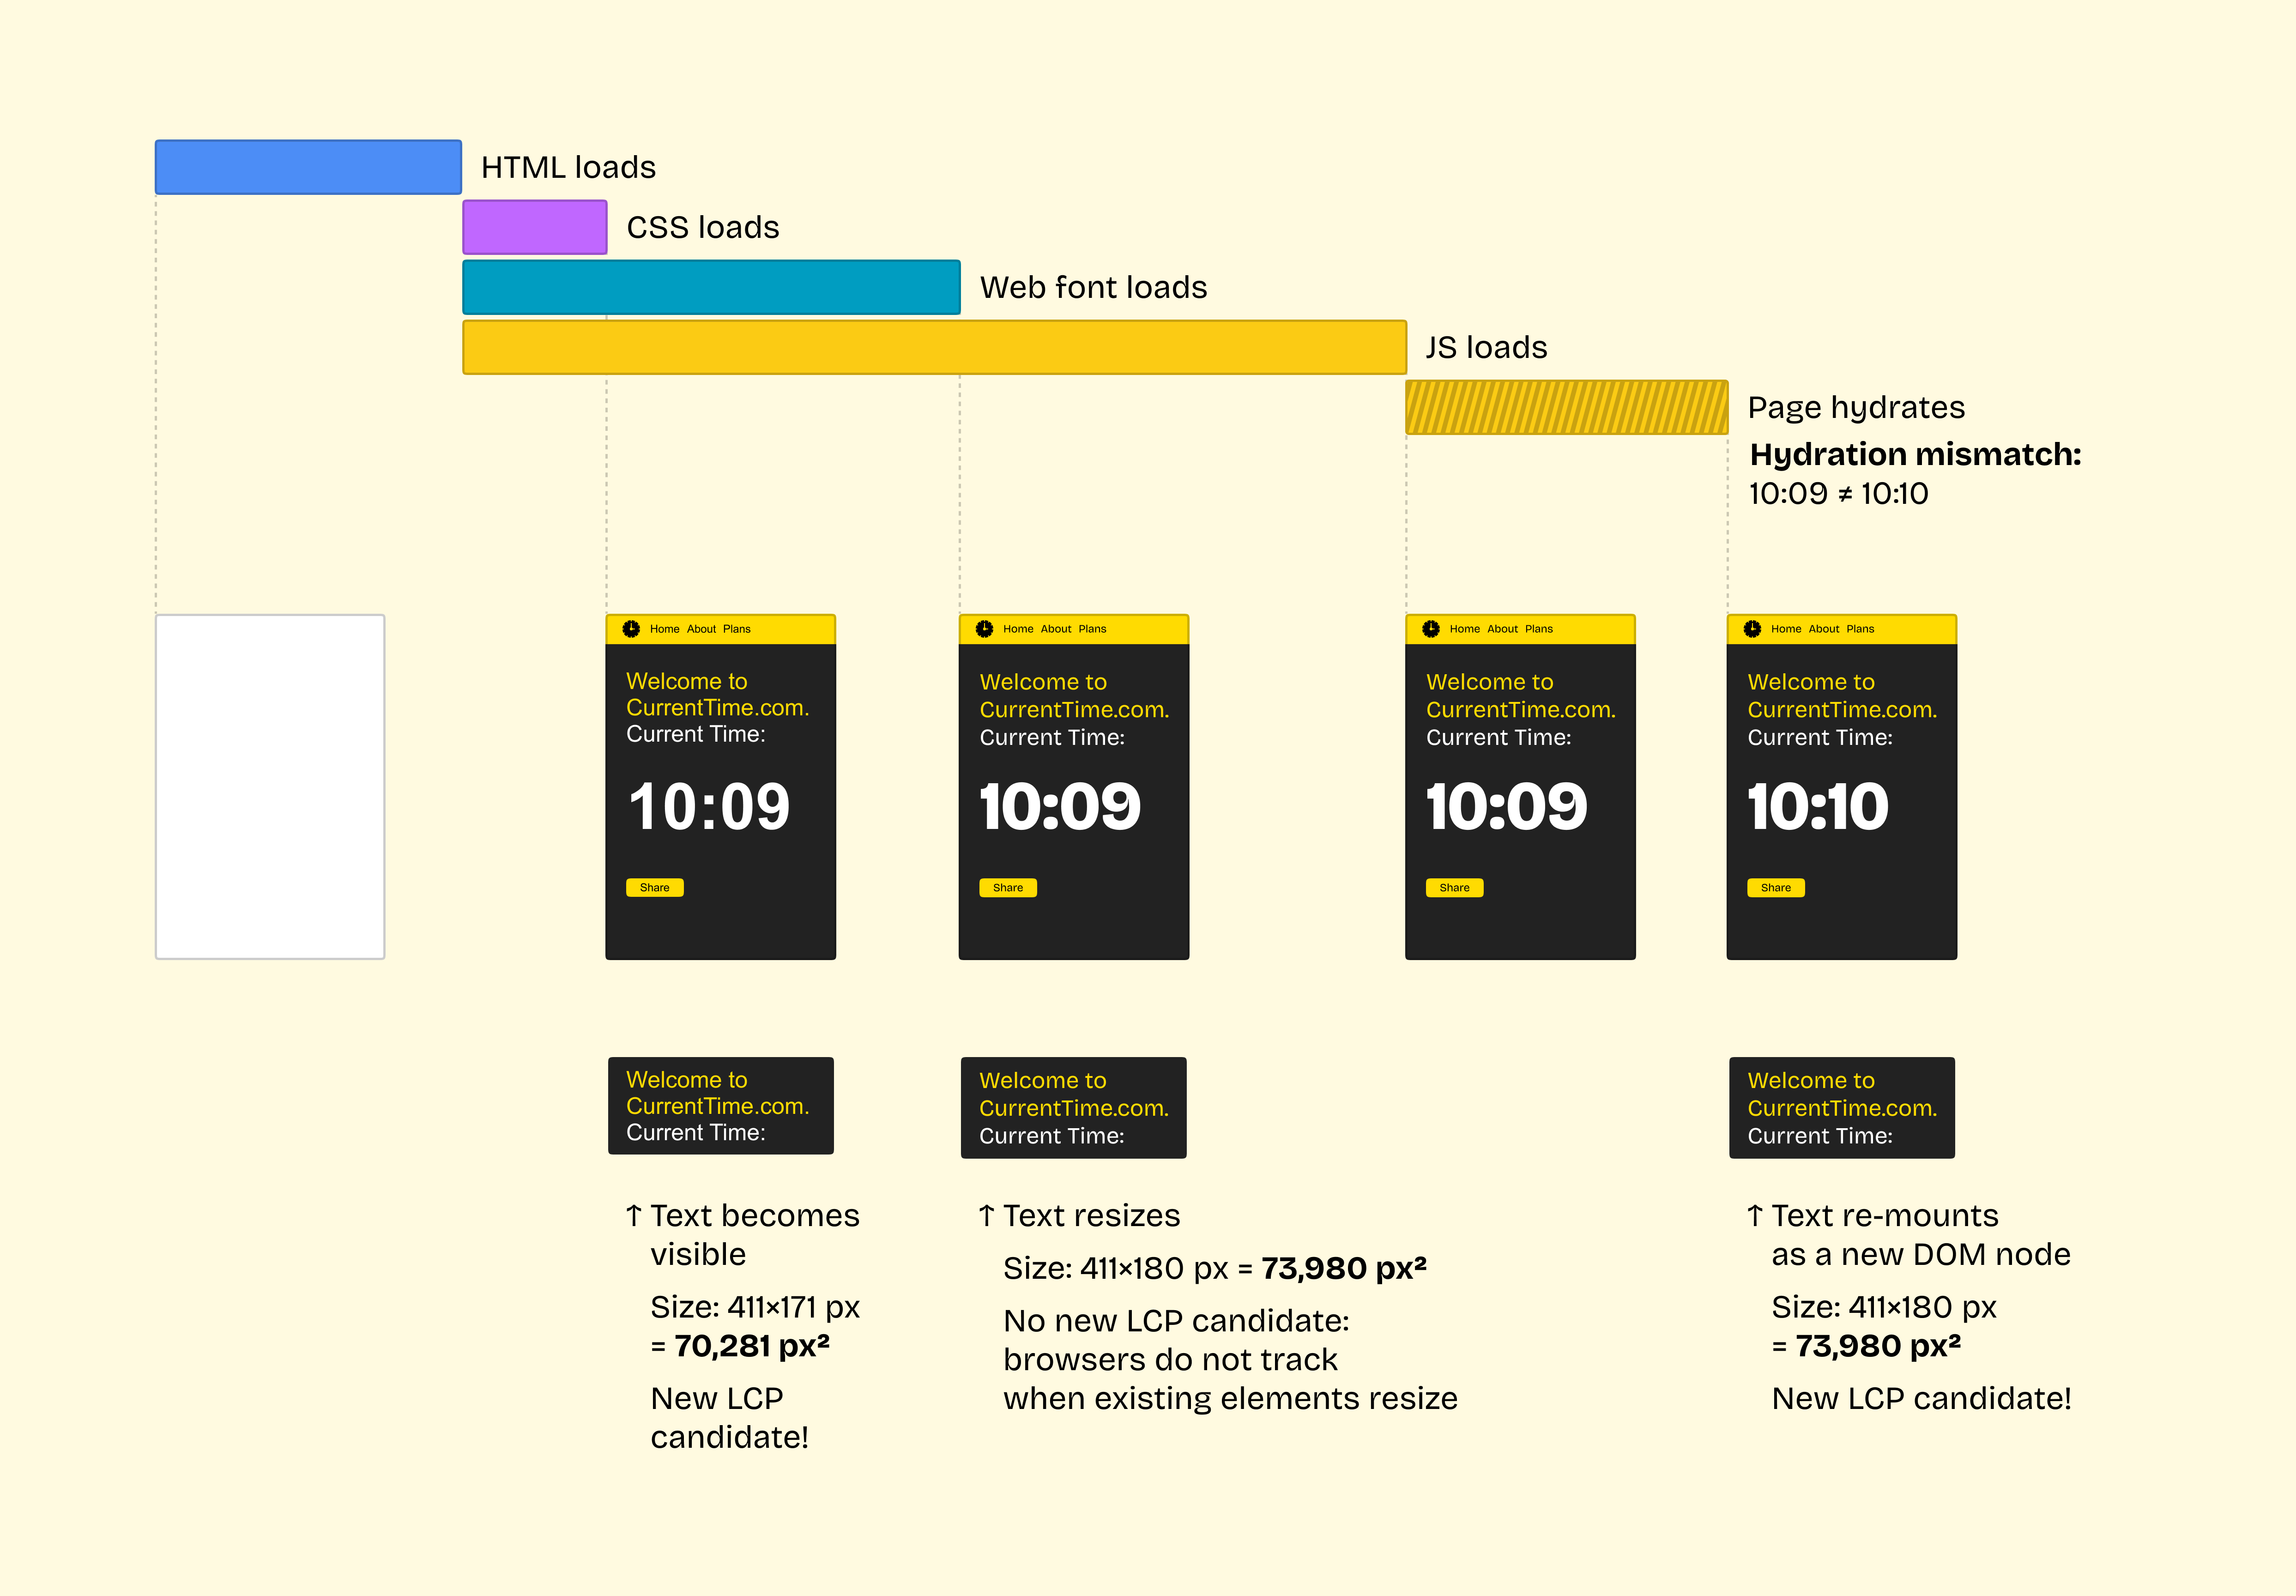
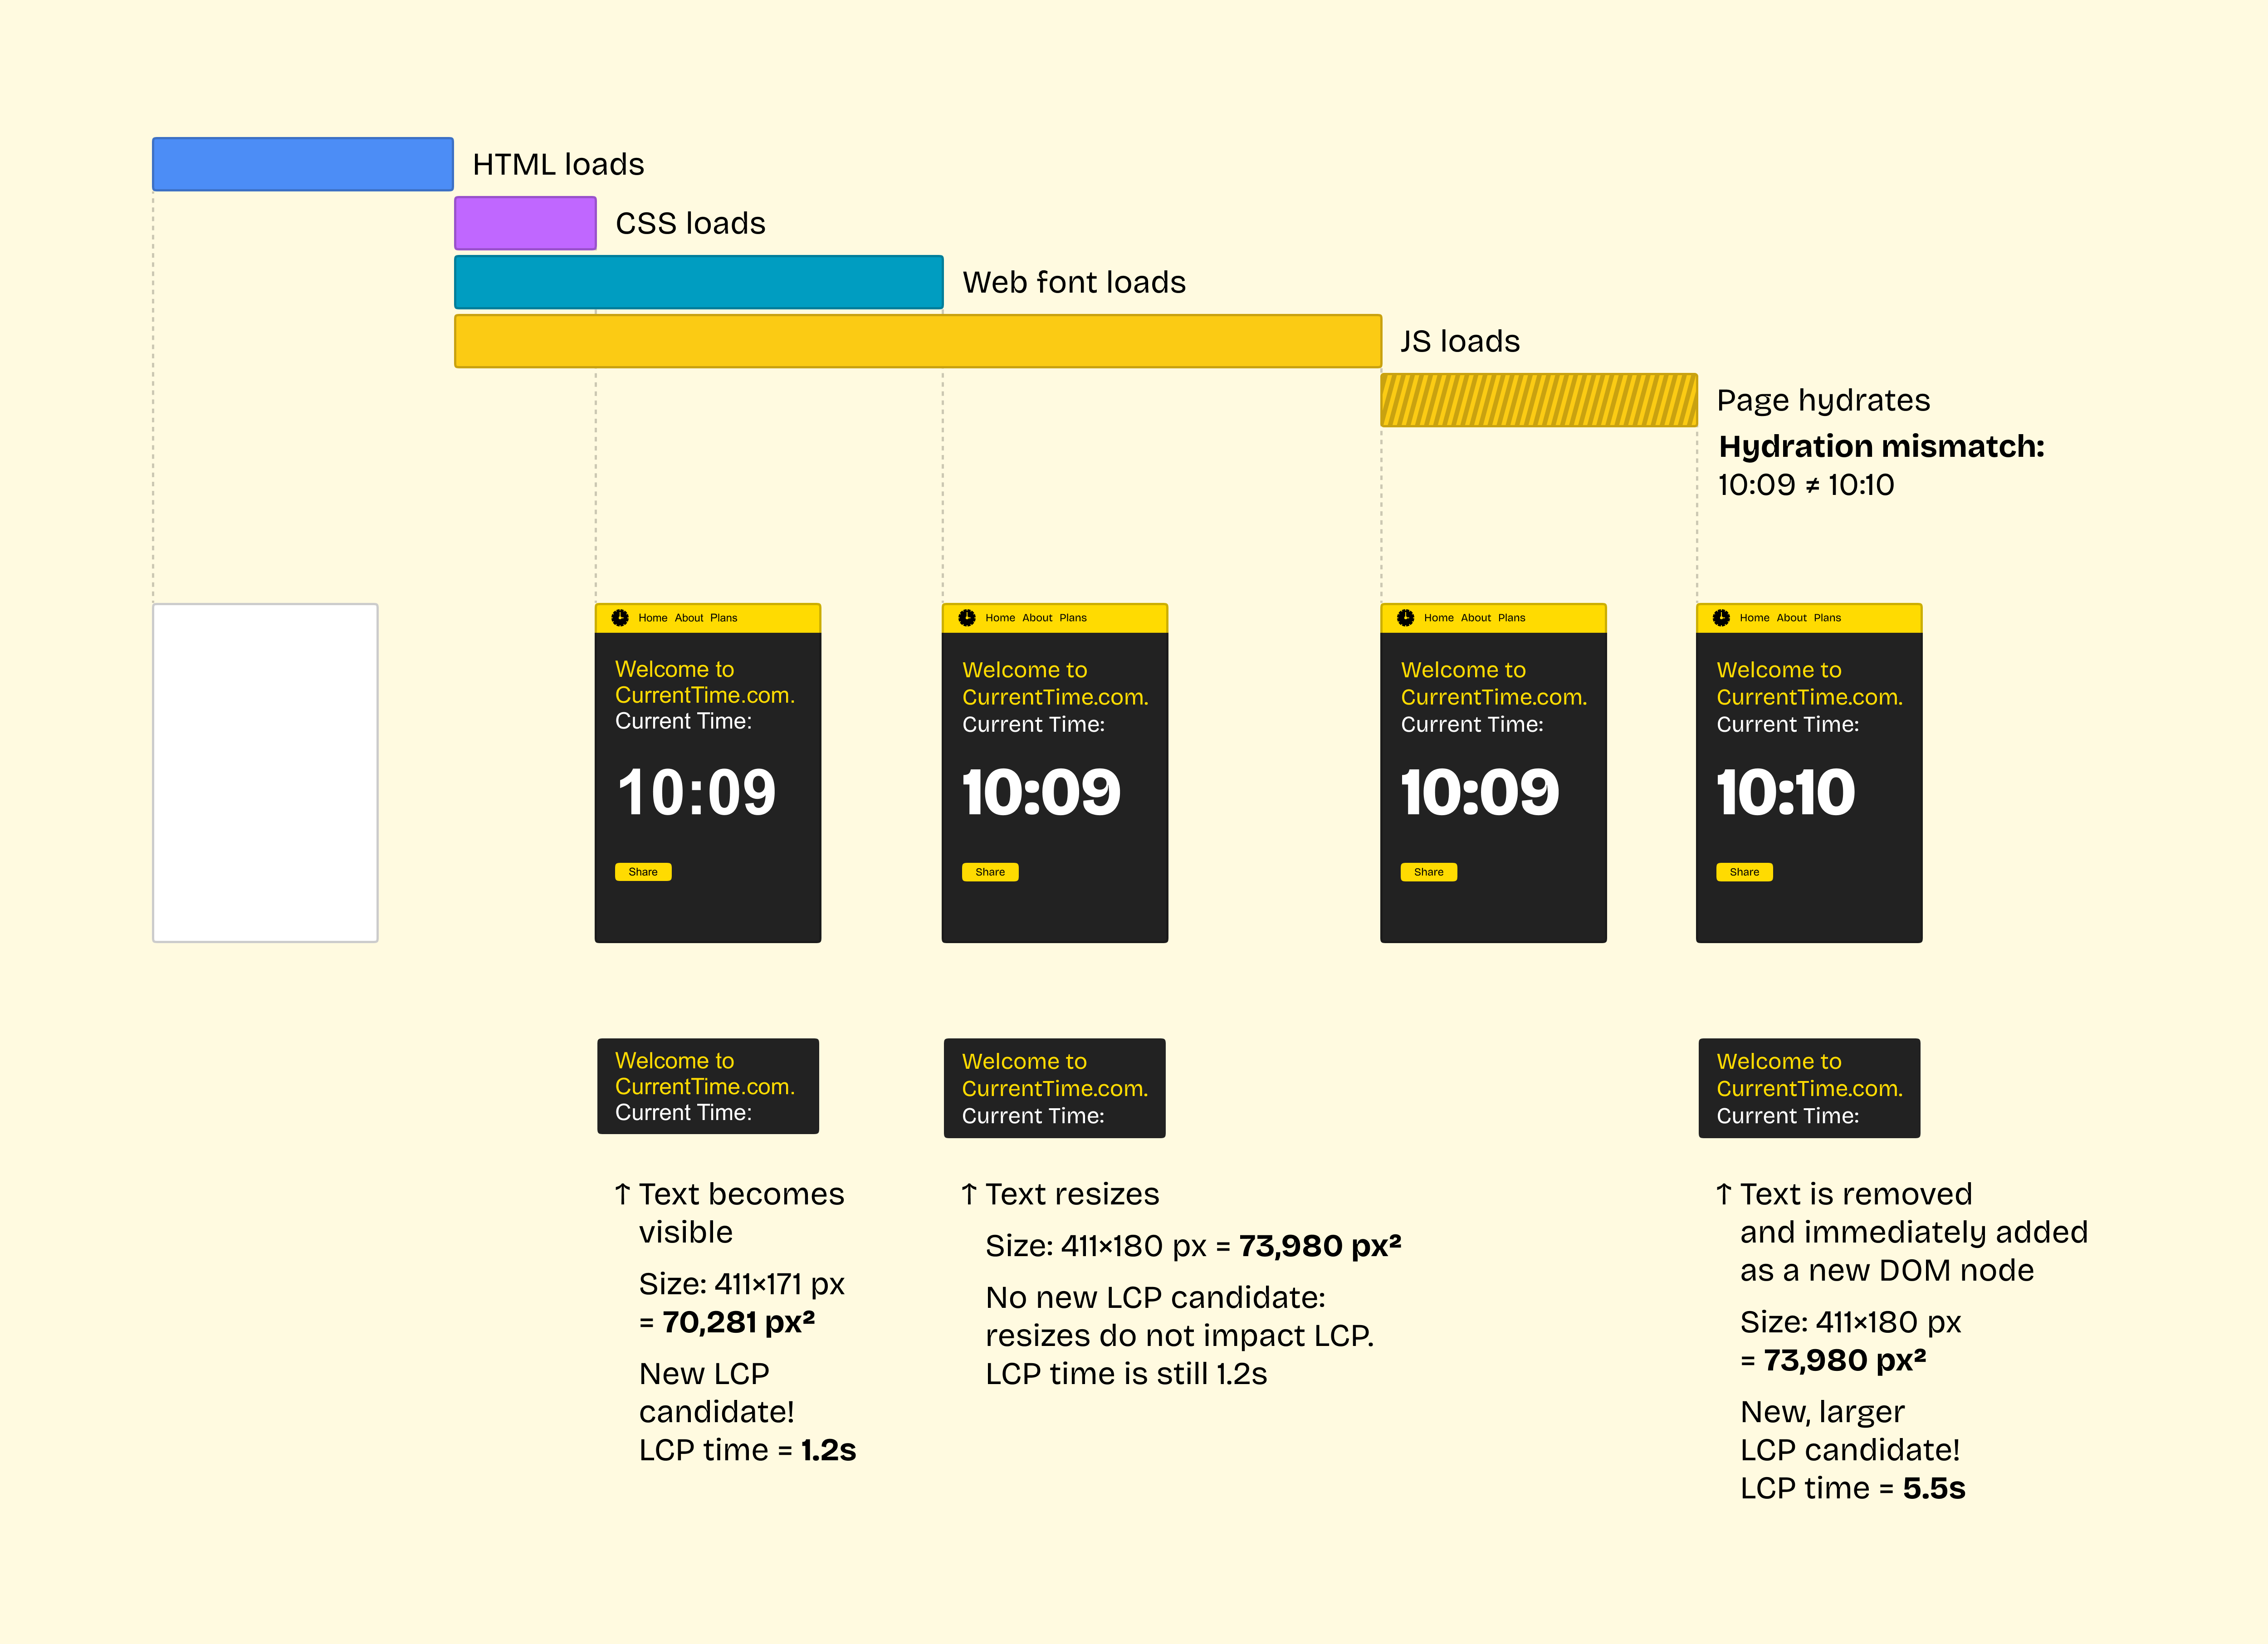
Updates

diff --git a/src/content/blog/hydration-mismatch/index.md b/src/content/blog/hydration-mismatch/index.md
@@ -8,11 +8,11 @@ date:
   modified: 2026-06-27T00:00:00Z
 ---
 
-I regularly help people with performance of their React apps. Here’s a common, but surprisingly obscure issue that I keep seeing over and over:
+I regularly help people with performance of their React apps. Here’s a common but surprisingly obscure issue that I keep seeing over and over:
 
 <mark>A single hydration mismatch on a page can tank Largest Contentful Paint from green all the way to red</mark>
 
-To avoid it, it’s enough to avoid hydration mismatches. But to understand _why_ it’s an issue, you need to learn three separate facts that, together, form a puzzle.
+To avoid it, it’s enough to avoid hydration mismatches. But to understand _why_ it’s an issue, you need to puzzle together three separate facts.
 
 :::note
 **Refresher: what’s a hydration mismatch?** _[Hydration](https://react.dev/reference/react-dom/client/hydrateRoot#hydrating-server-rendered-html)_ is when React makes server-rendered DOM interactive, going over it, attaching all event listeners (`onClick` etc) to the right DOM nodes, and executing `useEffect`s. _Hydration mismatch_ happens when client-rendered DOM is different from server-rendered DOM – e.g.:
@@ -32,24 +32,28 @@ In this situation, as React walks DOM, it expects to find a `button` and attach 
 ## Fact 1: Hydration Mismatches Force a New DOM
 
 :::sidenote[React used to just [patch hydration mismatches](https://legacy.reactjs.org/docs/react-dom-client.html#hydrateroot:~:text=It%20can%20patch%20up%20differences%20in%20text%20content%2C%20but%20you%20should%20treat%20mismatches%20as%20bugs%20and%20fix%20them.). But this was killed in React 18 [for correctness reasons](https://github.com/react/react/pull/22629).]
-Hydration mismatches force React to recreate the DOM from scratch. If the server rendered `<span>Current time: 10:09</span>` but the client rendered `<span>Current time: 10:10</span>`, React would not simply patch the time, no. It would find the nearest `Suspense` boundary around this `<span>` and remount its whole DOM from scratch. If the app has no `Suspense` boundary, the entire page would remount.
+Hydration mismatches force React to recreate the DOM from scratch.
 :::
+
+If the server rendered `<span>Current time: 10:09</span>` but the client rendered `<span>Current time: 10:10</span>`, React would not simply patch the time, no. It would find the nearest `Suspense` boundary around this `<span>` and remount its whole DOM from scratch. If the app has no `Suspense` boundary, the entire page would remount.
 
 ## Fact 2: Text Resizes When Fonts Load
 
-Here’s another, unrelated piece of the puzzle.
+Here’s the second piece of the puzzle.
 
-If you use web fonts (and [`font-display: swap`](https://developer.chrome.com/docs/performance/insights/font-display)), it’s very common to see a behavior like this:
+If you use web fonts (and [`font-display: swap`](https://developer.chrome.com/docs/performance/insights/font-display)), as the page loads, you’d frequently see text shift like this:
 
 ![{maxWidth: 300, border: true}](./assets/webpage-loading-example.mp4)
 
-Different fonts usually have [different physical sizes even with the same `font-size`](https://type.today/en/journal/verticalmetrics). So when a web font loads, all text elements on the page usually change their size.
+This happens because the same characters tend to have [different physical sizes in different fonts](https://tonsky.me/blog/font-size/). So when a web font loads, and a text element switches from a system font to that web font, it would often get a few pixels larger or smaller.
 
 ## Fact 3: LCP Measures Only New DOM Nodes
 
 Here’s the third and final piece of this puzzle.
 
-Largest Contentful Paint (LCP) is one of Google’s Core Web Vitals. It’s critical for SEO, and it measures how long it takes for the largest element on the page to render. [Here’s how it does that](https://web.dev/articles/lcp):
+:::sidenote[Largest Contentful Paint (LCP) is one of Google’s Core Web Vitals. Having it green is critical [for good search engine ranking](https://www.semrush.com/blog/lcp/), not speaking of user experience.]
+Largest Contentful Paint (LCP) measures how long it takes for the largest element on the page to render. [Here’s how it does that](https://web.dev/articles/lcp):
+:::
 
 - _the first time the page becomes visible,_ the browser finds the largest text element or image on the page and records its size. This element becomes _the LCP candidate_, and the time when it appeared becomes _the LCP time_
 - _whenever a new element gets added into DOM,_ the browser measures its size. If that element is larger than the previous LCP candidate, it becomes the new LCP candidate, and LCP time increases
@@ -70,16 +74,16 @@ What happens when we have a) a text block that becomes larger when fonts load, a
 
 Ouch!
 
-If it wasn’t for a hydration mismatch, LCP would occur when the text first becomes visible. On most web pages and an average 4G connection, this happens around the 1-2 second mark (safely in the green).
+If it wasn’t for a hydration mismatch, LCP would occur when the text first becomes visible.
 
 Unfortunately, in this case, hydration replaces all elements on the page. To the user, nothing changes: they still see the same text! But to the browser, React just deleted all DOM nodes and added a bunch of completely new nodes. Hence, the browser measures them, finds a text node that’s larger than previously recorded, and updates the LCP value.
 
-Now, due to the mismatch, LCP is registered only when hydration completes. With an average 4G connection and a typical app, this would happen at the 5+ second mark (very much in the red).
+Now, due to the mismatch, LCP is registered only when hydration completes. On a typical 4G connection and a typical React page, this would happen at the 5+ second mark, taking LCP from green or yellow deep into red.
 
 ## How to Deal With This
 
 Avoid hydration mismatches. Fix them if you run into them.
 
-If you can’t: wrap the element that causes a mismatch with `<Suspense>`. Then React would remount only that `<Suspense>` boundary (instead of the full DOM). Unless that element is also the LCP element, that would solve the issue.
+If you can’t: wrap the element that causes a mismatch with `<Suspense>`. Then, instead of remounting the full DOM, React would remount only that `<Suspense>` boundary. Unless that element is also the LCP element, this would prevent the issue.
 
 _With thanks to [Andy Davies](https://andydavies.me/) who taught me to inspect LCP candidates in a Chrome trace and helped me discover this._